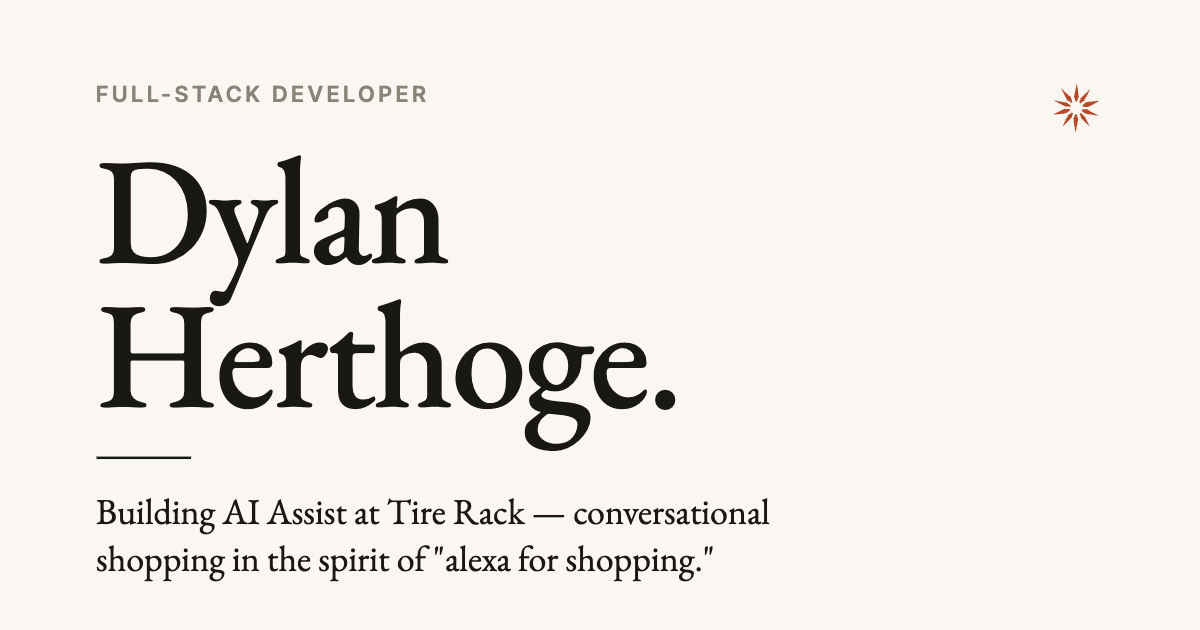
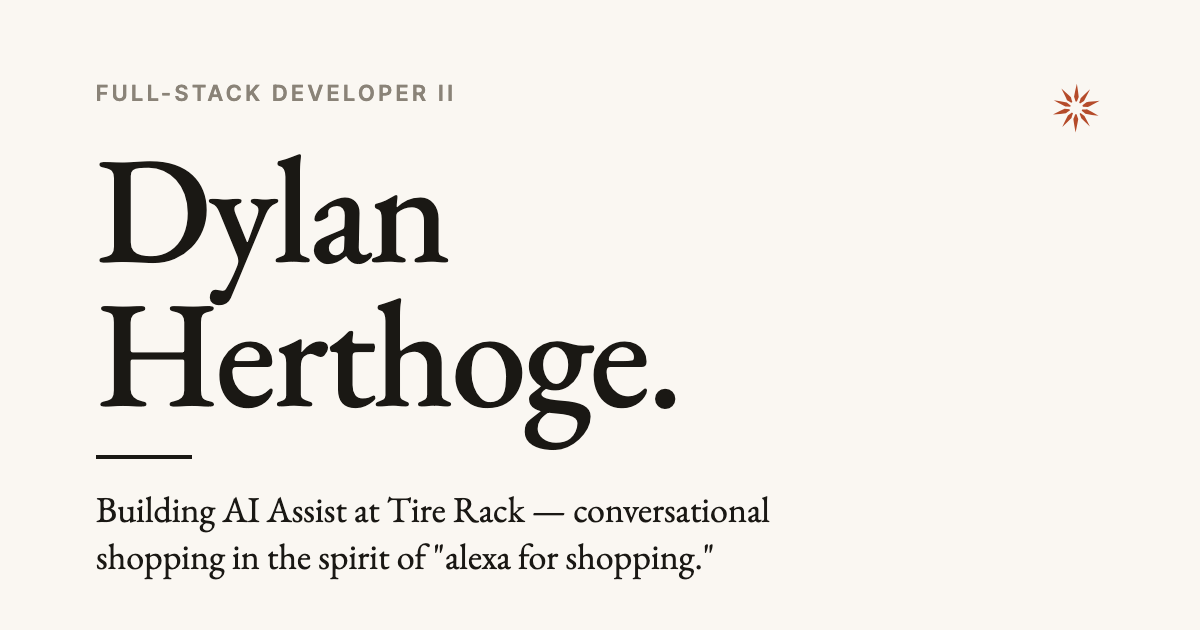
Add service worker, fix role title to II everywhere
- Add /sw.js, a deliberately-empty service worker that exists only so
  Chrome and Edge consider the site PWA-installable (passthrough fetch
  handler is the requirement). No caching — Cloudflare's edge plus our
  immutable /_astro/* headers already do that, and a misbehaving SW
  would serve stale HTML and break the push-to-deploy loop.
- Register the SW from an inline script in BaseHead.
- Cache-Control: no-cache on /sw.js so browsers re-check on every load.
- Fix every "Full-Stack Developer" reference to "Full-Stack Developer II":
  SITE_DESCRIPTION in consts.ts (this is what Google currently shows in
  the result snippet), the manifest description, and the OG image text
  (regenerated via scripts/generate-og-image.mjs, also added).

diff --git a/public/sw.js b/public/sw.js
@@ -1,0 +1,28 @@
+// Minimal service worker. Its job here is twofold:
+// 1. Satisfy Chrome / Edge's PWA installability requirement, which wants a
+//    registered service worker with a `fetch` event handler so the browser
+//    can show the "Install this app" prompt.
+// 2. Stay out of the way. We do NOT cache anything here — Cloudflare's edge
+//    cache + the immutable headers on /_astro/* already give us fast
+//    repeat visits. A service worker that caches incorrectly would serve
+//    stale HTML for hours and undo the whole "push to deploy" loop.
+//
+// If/when we ever want real offline support or stale-while-revalidate
+// behavior, this file is the place to add it.
+
+self.addEventListener('install', () => {
+	// Activate immediately instead of waiting for old tabs to close. Safe
+	// since we have no cached state to migrate.
+	self.skipWaiting();
+});
+
+self.addEventListener('activate', (event) => {
+	// Claim any open tabs that loaded before this SW activated.
+	event.waitUntil(self.clients.claim());
+});
+
+self.addEventListener('fetch', () => {
+	// Intentional passthrough. The existence of this handler is what tells
+	// Chrome the site is "PWA-installable"; the empty body means every
+	// request continues to hit the network normally.
+});

diff --git a/src/consts.ts b/src/consts.ts
@@ -2,4 +2,4 @@
 // You can import this data from anywhere in your site by using the `import` keyword.
 
 export const SITE_TITLE = 'Dylan Herthoge';
-export const SITE_DESCRIPTION = 'Dylan Herthoge — Full-Stack Developer at Tire Rack, building AI Assist for conversational tire shopping. Notes on software, AI, and e-commerce.';
+export const SITE_DESCRIPTION = 'Dylan Herthoge — Full-Stack Developer II at Tire Rack, building AI Assist for conversational tire shopping. Notes on software, AI, and e-commerce.';
